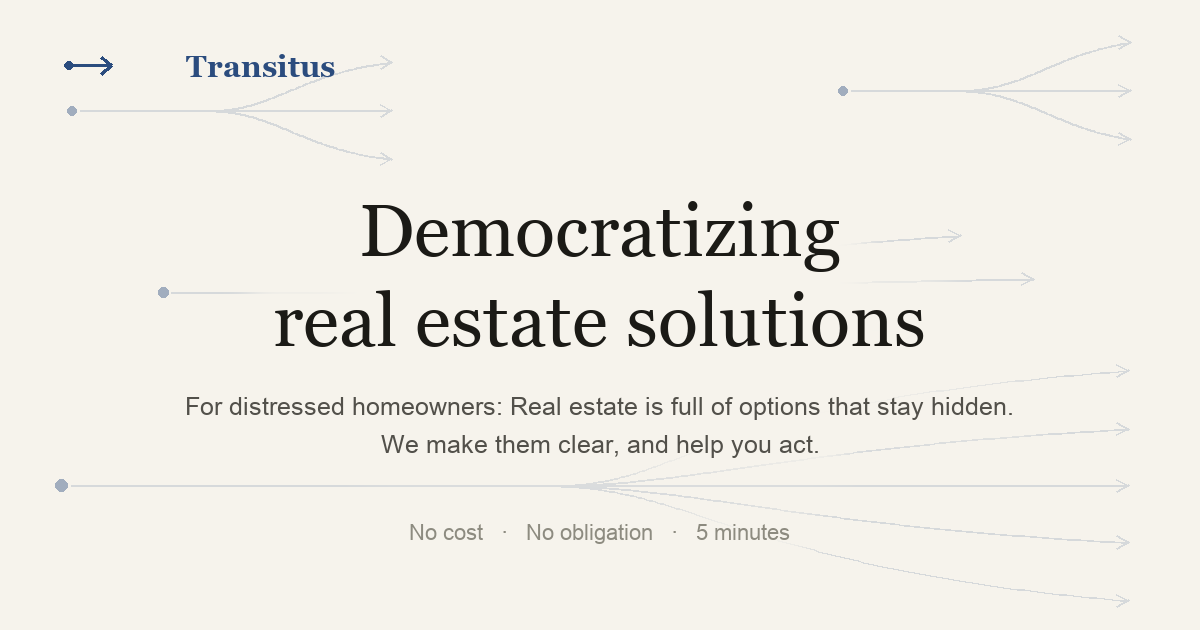
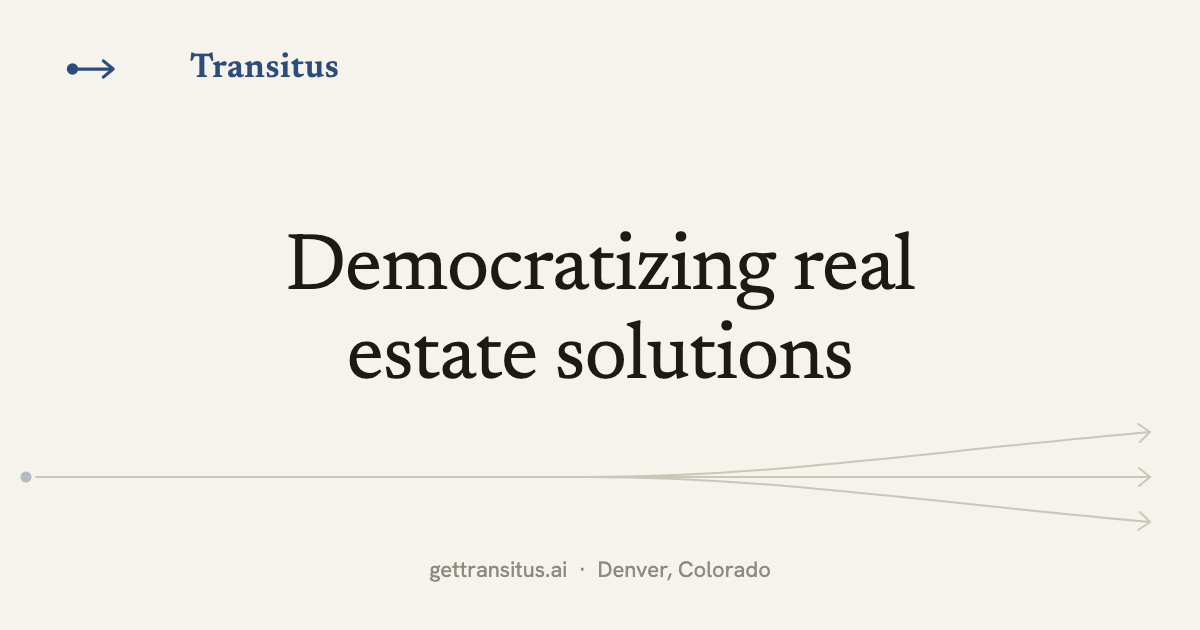
Homepage: broaden the hero subhead past distress
'For distressed homeowners: Real estate is full of options that stay
hidden. We make them clear, and help you act.' narrowed the page to one
audience and positioned Transitus as an advisor helping someone else act.

Now: 'For homeowners: When the conventional path doesn't work, there are
usually other ways. We show them all, and make it happen.' Keeps the
homeowner label (an agent reads it to learn what we do for their client),
drops 'hidden' (which implied concealment -- true of wholesalers, not of
the general market), and swaps 'help you act' for 'make it happen', which
covers buying it, structuring it, or routing it to an agent.

Share card re-rendered in the same style as every other page. The old one
had the subhead baked into the image, so texting anyone the homepage link
showed 'For distressed homeowners' before they read a word.

diff --git a/index.html b/index.html
@@ -376,7 +376,7 @@
             <div class="wrap">
                 <div class="hero-inner">
                     <h1>Democratizing<br>real estate solutions</h1>
-                    <p><span class="hs1">For distressed homeowners: Real estate is full of options that stay hidden.</span><br>We make them clear, and help you act.</p>
+                    <p><span class="hs1">For homeowners: When the conventional path doesn&#x27;t work, there are usually other ways.</span><br>We show them all, and make it happen.</p>
                     <div class="hero-cta"><a href="/your-options" class="btn btn-primary">See my options <span class="arr">&rarr;</span></a></div>
                     <div class="hero-notes"><span>Colorado</span><span>No cost</span><span>No obligation</span><span>5 minutes</span></div>
                                                         </div>
